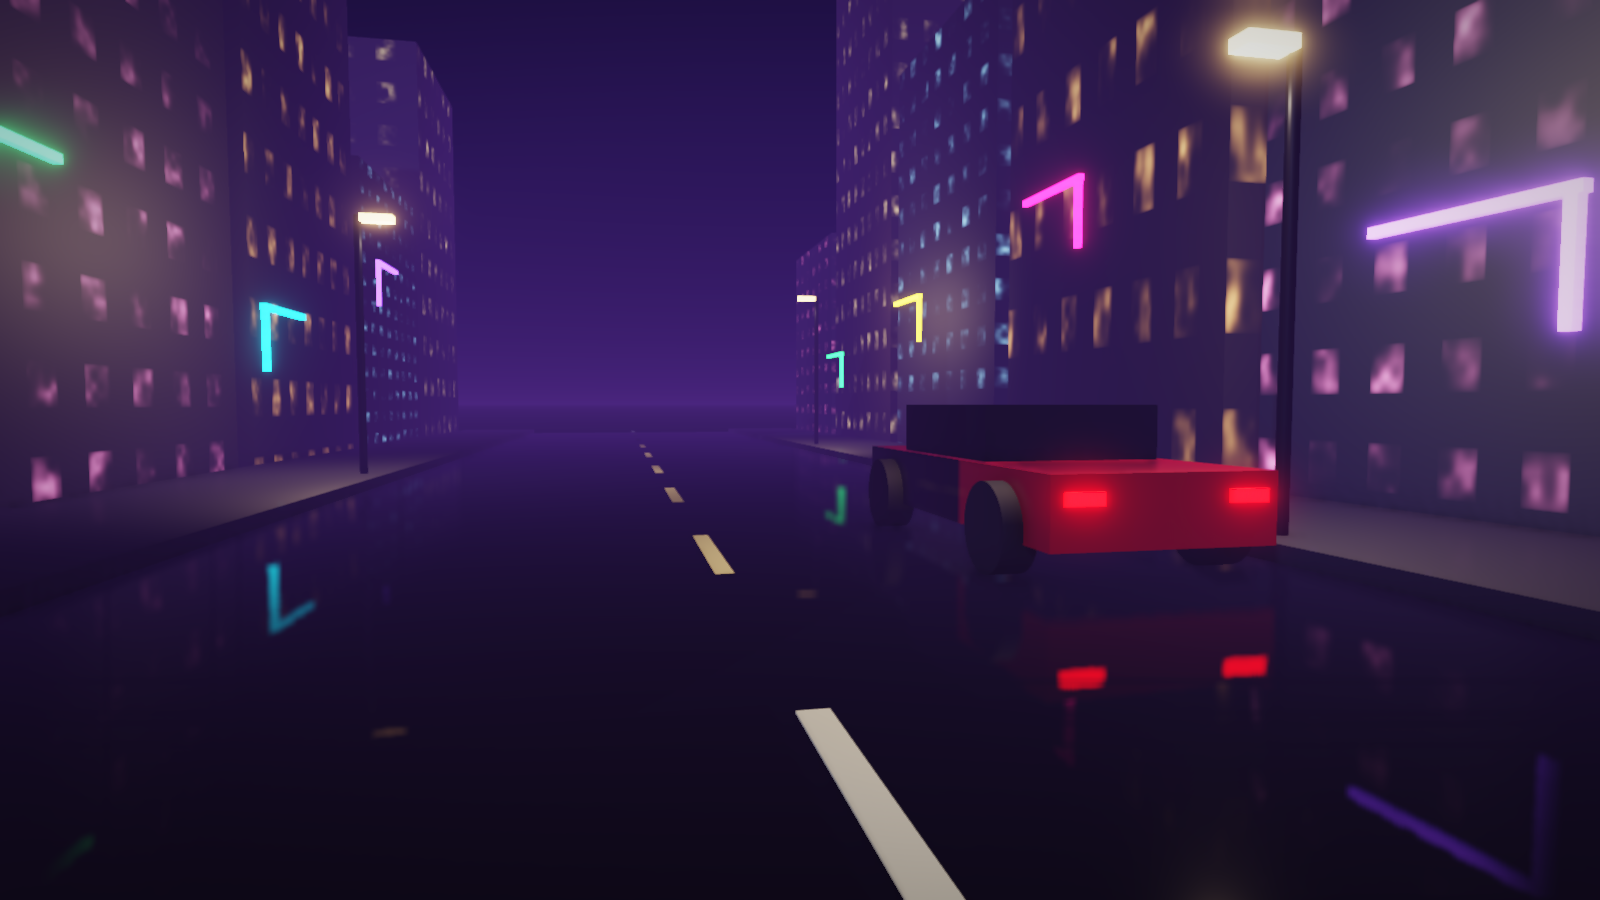
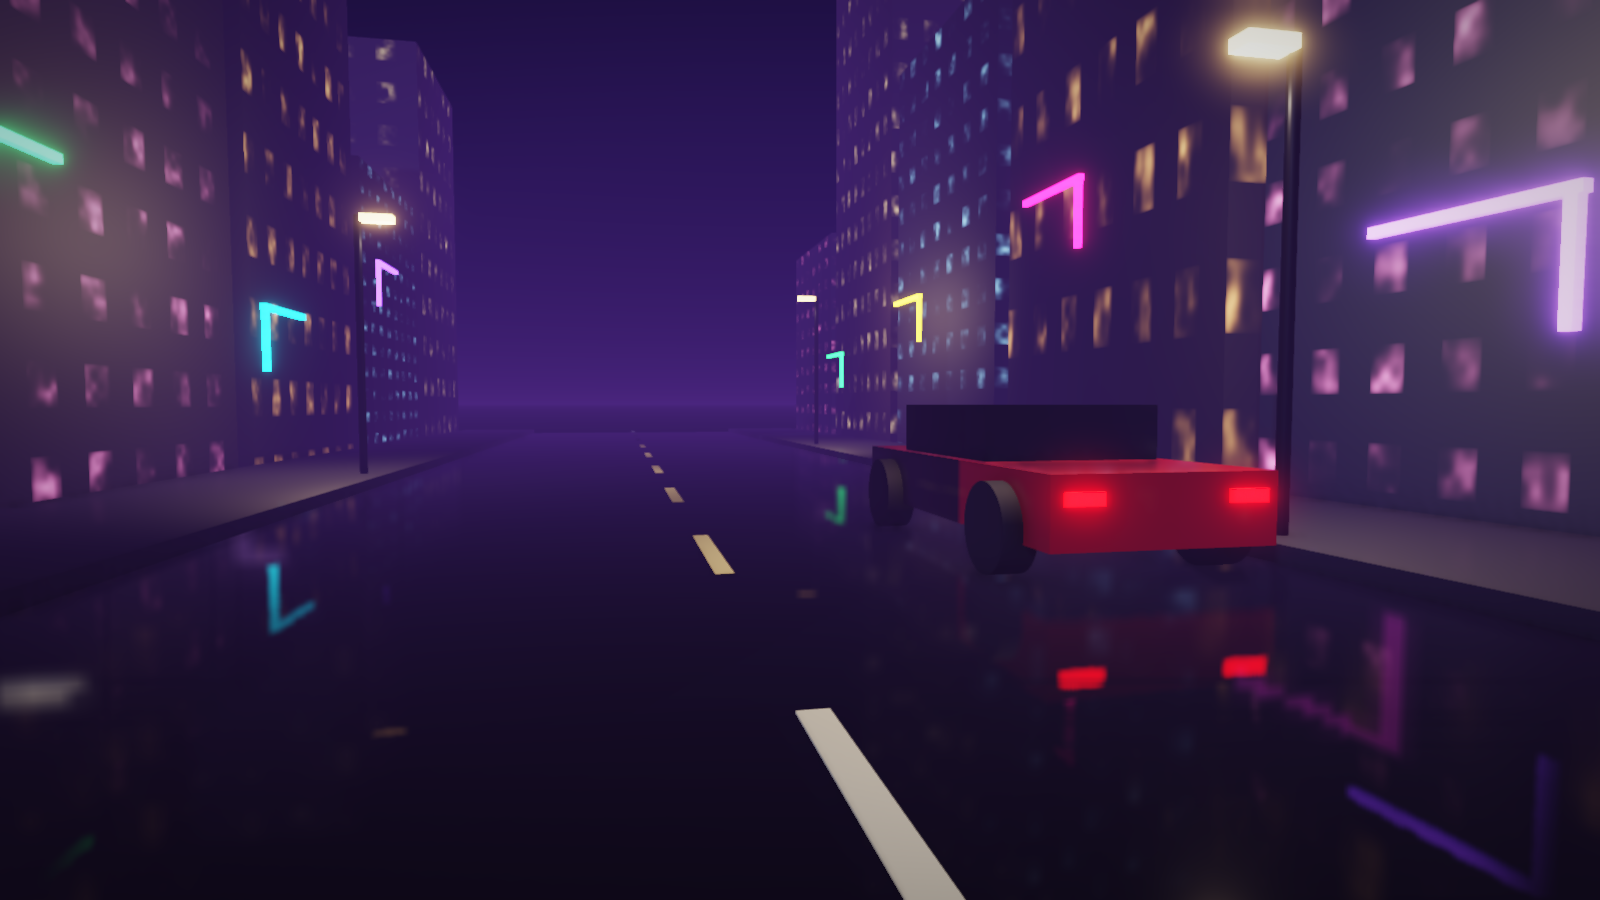
Render: sonda de reflexión (cubemap capturado de la escena)
- ReflectionProbe (Crear › Luces): al empezar se captura la escena en 6 caras desde su
  posición con el pipeline normal sin posprocesado; los niveles de detalle del cubemap hacen
  de reflejo rugoso y luz ambiental para materiales y barniz.
- La captura usa su propio framebuffer anterior (la pasada de sombras usa el general) y la
  sonda se quita al parar el juego en el editor.
- Ciudad de neón con sonda; prueba de guardado; documentación e imagen del README.

Claude-Session: https://claude.ai/code/session_0156Hn7CFwJtAWRTPtGc8EEh

diff --git a/engine/src/render/Renderer.cpp b/engine/src/render/Renderer.cpp
@@ -146,6 +146,10 @@ uniform ivec4 uGraphOut;       // registros de color base, metal, rugosidad y em
 uniform sampler2D uGraphTex0;
 uniform sampler2D uGraphTex1;
 uniform float uTime;
+uniform samplerCube uProbe;
+uniform int uProbeOn;
+uniform float uProbeMips;
+uniform float uProbeIntensity;
 uniform int uHdr;
 vec3 invAces(vec3 y) { // inversa de la curva ACES: tras el tonemapping final queda el color original
     y = clamp(y, 0.0, 0.99);
@@ -394,6 +398,12 @@ void main() {
     vec3 sharpSky = ry > 0.0 ? mix(horizon, sky, pow(ry, 0.55)) : mix(horizon, ground, pow(-ry, 0.35));
     vec3 blurSky = mix(ground, mix(horizon, sky, max(ry, 0.0)), ry * 0.5 + 0.5);
     vec3 env = mix(sharpSky, blurSky, smoothstep(0.0, 0.8, rough));
+    if (uProbeOn == 1) {
+        // La captura está tonemapeada en sRGB: se vuelve a luz lineal (inversa de ACES y de la exposición).
+        float ex = max(uExposure, 0.01);
+        env = invAces(toLinear(textureLod(uProbe, r, rough * uProbeMips).rgb)) / ex * uProbeIntensity;
+        hemi = invAces(toLinear(textureLod(uProbe, n, uProbeMips * 0.85).rgb)) / ex * uProbeIntensity;
+    }
     // El reflejo que apunta "dentro" de la superficie (normal map) no ve el cielo: oclusión de horizonte.
     float horizonOcc = clamp(1.0 + dot(reflect(-v, n), vNormal * (gl_FrontFacing ? 1.0 : -1.0)), 0.0, 1.0);
     // Oclusión especular de Lagarde a partir de la oclusión ambiental.
@@ -411,6 +421,8 @@ void main() {
         float Fv = 0.04 + 0.96 * pow(1.0 - cndv, 5.0);
         vec3 cr3 = reflect(-v, cn);
         vec3 coatEnv = cr3.y > 0.0 ? mix(horizon, sky, pow(cr3.y, 0.55)) : mix(horizon, ground, pow(-cr3.y, 0.35));
+        if (uProbeOn == 1)
+            coatEnv = invAces(toLinear(textureLod(uProbe, cr3, cr * uProbeMips).rgb)) / max(uExposure, 0.01) * uProbeIntensity;
         // La capa de abajo recibe menos luz (la que refleja el barniz) y se le suma el brillo del barniz.
         color = color * (1.0 - Fv * uClearcoat.x) + (coatDirect + coatEnv * Fv * specAo * uAmbientI) * uClearcoat.x;
         specTint = specTint * (1.0 - Fv * uClearcoat.x) + vec3(Fv * uClearcoat.x * specAo);
@@ -673,6 +685,7 @@ bool Renderer::createGpuObjects() {
     uCascadeTexel_ = u("uCascadeTexel");
     uGraphCount_ = u("uGraphCount"); uGraph_ = u("uGraph[0]"); uGraphOut_ = u("uGraphOut");
     uGraphTex0_ = u("uGraphTex0"); uGraphTex1_ = u("uGraphTex1"); uTime_ = u("uTime");
+    uProbe_ = u("uProbe"); uProbeOn_ = u("uProbeOn"); uProbeMips_ = u("uProbeMips"); uProbeIntensity_ = u("uProbeIntensity");
     uAlphaCutoff_ = u("uAlphaCutoff"); uSpot_ = u("uSpot"); uSpotInner_ = u("uSpotInner");
     uInstanced_ = u("uInstanced");
     uShadowInstanced_ = glGetUniformLocation(shadowProgram_, "uInstanced");
@@ -1167,6 +1180,46 @@ void Renderer::shutdown() {
 
 void Renderer::setLodEnabled(bool on) { lodEnabled_ = on; }
 
+bool Renderer::beginProbeCapture(int size) {
+    size = std::clamp(size, 16, 512);
+    if (!probeTex_ || probeSize_ != size) {
+        if (probeTex_) glDeleteTextures(1, &probeTex_);
+        if (probeFbo_) glDeleteFramebuffers(1, &probeFbo_);
+        if (probeDepth_) glDeleteRenderbuffers(1, &probeDepth_);
+        glGenTextures(1, &probeTex_);
+        glBindTexture(GL_TEXTURE_CUBE_MAP, probeTex_);
+        for (int f = 0; f < 6; ++f)
+            glTexImage2D(GL_TEXTURE_CUBE_MAP_POSITIVE_X + f, 0, GL_RGBA8, size, size, 0, GL_RGBA, GL_UNSIGNED_BYTE, nullptr);
+        glTexParameteri(GL_TEXTURE_CUBE_MAP, GL_TEXTURE_MIN_FILTER, GL_LINEAR_MIPMAP_LINEAR);
+        glTexParameteri(GL_TEXTURE_CUBE_MAP, GL_TEXTURE_MAG_FILTER, GL_LINEAR);
+        for (GLenum w : {GL_TEXTURE_WRAP_S, GL_TEXTURE_WRAP_T, GL_TEXTURE_WRAP_R})
+            glTexParameteri(GL_TEXTURE_CUBE_MAP, w, GL_CLAMP_TO_EDGE);
+        glGenRenderbuffers(1, &probeDepth_);
+        glBindRenderbuffer(GL_RENDERBUFFER, probeDepth_);
+        glRenderbufferStorage(GL_RENDERBUFFER, GL_DEPTH_COMPONENT24, size, size);
+        glGenFramebuffers(1, &probeFbo_);
+        probeSize_ = size;
+    }
+    glGetIntegerv(GL_FRAMEBUFFER_BINDING, &probePrevFbo_);
+    forceDirect_ = true;
+    return true;
+}
+
+void Renderer::probeFace(int face) {
+    glBindFramebuffer(GL_FRAMEBUFFER, probeFbo_);
+    glFramebufferTexture2D(GL_FRAMEBUFFER, GL_COLOR_ATTACHMENT0, GL_TEXTURE_CUBE_MAP_POSITIVE_X + face, probeTex_, 0);
+    glFramebufferRenderbuffer(GL_FRAMEBUFFER, GL_DEPTH_ATTACHMENT, GL_RENDERBUFFER, probeDepth_);
+}
+
+void Renderer::endProbeCapture(float intensity) {
+    glBindTexture(GL_TEXTURE_CUBE_MAP, probeTex_);
+    glGenerateMipmap(GL_TEXTURE_CUBE_MAP); // los niveles pequeños hacen de reflejo rugoso y de luz ambiental
+    glBindFramebuffer(GL_FRAMEBUFFER, static_cast<GLuint>(probePrevFbo_));
+    forceDirect_ = false;
+    probeOn_ = true;
+    probeIntensity_ = intensity;
+}
+
 void Renderer::setHdrUniforms(bool on) {
     for (GLuint p : {meshProgram_, spriteProgram_, skyProgram_}) {
         if (!p) continue;
@@ -1185,7 +1238,7 @@ void Renderer::beginFrame(const Viewport& vp, Color clear) {
     // Con posprocesado la escena se dibuja en un render target (a la escala del perfil) y se compone al final.
     glGetIntegerv(GL_FRAMEBUFFER_BINDING, &targetFbo_);
     sceneInTarget_ = false;
-    if (quality_.postProcess) {
+    if (quality_.postProcess && !forceDirect_) {
         const int sw = std::max(1, static_cast<int>(viewport_.width * quality_.renderScale + 0.5f));
         const int sh = std::max(1, static_cast<int>(viewport_.height * quality_.renderScale + 0.5f));
         sceneInTarget_ = post_->begin(sw, sh, hdrRequested_ && caps_.halfFloatTargets);
@@ -1344,6 +1397,13 @@ void Renderer::setLighting(const SceneLighting& l) {
         glUniform4f(uCascadeTexel_, l.cascadeTexel[0], l.cascadeTexel[1], l.cascadeTexel[2], l.cascadeTexel[3]);
     }
     glUniform1i(uShadowMap_, 1);
+    // Sonda: unidad 9 (durante la captura no se usa: no se refleja a sí misma).
+    glUniform1i(uProbe_, 9);
+    glUniform1i(uProbeOn_, (probeOn_ && !forceDirect_) ? 1 : 0);
+    glUniform1f(uProbeMips_, probeSize_ > 0 ? std::log2(float(probeSize_)) : 0.0f);
+    glUniform1f(uProbeIntensity_, probeIntensity_);
+    glActiveTexture(GL_TEXTURE9);
+    glBindTexture(GL_TEXTURE_CUBE_MAP, probeTex_);
     glUniform1i(uTex_, 0);
     glActiveTexture(GL_TEXTURE1);
     glBindTexture(GL_TEXTURE_2D, shadowTex_);

diff --git a/engine/src/runtime/Runtime.cpp b/engine/src/runtime/Runtime.cpp
@@ -158,6 +158,7 @@ bool Runtime::activateScene(const std::string& text, const std::string& name) {
     TransformSystem::update(*scene_);
     physics_.build(*scene_);
     startVoxel();
+    captureProbes();
     physicsDestroySub_ = events_.subscribe<EntityDestroyedEvent>([this](const EntityDestroyedEvent& ev) {
         if (ev.scene != scene_.get()) return;
         physics_.removeEntity(ev.entity);
@@ -571,6 +572,43 @@ void Runtime::startVoxel() {
     TITAN_INFO("voxel", "Mundo de bloques iniciado: %zu chunks cerca de la cámara", voxel_.world()->loadedChunks());
 }
 
+void Runtime::captureProbes() {
+    renderer_->clearProbe();
+    Entity probe;
+    scene_->world().each<ReflectionProbe>([&](Entity e, ReflectionProbe&) {
+        if (probe.isNull() && scene_->isActiveInHierarchy(e)) probe = e;
+    });
+    if (probe.isNull()) return;
+    const ReflectionProbe& rp = *scene_->world().get<ReflectionProbe>(probe);
+    TransformSystem::update(*scene_);
+    const Vec3 eye = scene_->computeWorldMatrix(probe).translation();
+    if (!renderer_->beginProbeCapture(rp.resolution)) return;
+    // Caras del cubemap de OpenGL (+X, -X, +Y, -Y, +Z, -Z): dirección y "arriba" de cada una.
+    const Vec3 dirs[6] = {{1, 0, 0}, {-1, 0, 0}, {0, 1, 0}, {0, -1, 0}, {0, 0, 1}, {0, 0, -1}};
+    const Vec3 ups[6] = {{0, -1, 0}, {0, -1, 0}, {0, 0, 1}, {0, 0, -1}, {0, -1, 0}, {0, -1, 0}};
+    const auto t0 = Clock::now();
+    for (int f = 0; f < 6; ++f) {
+        const Vec3 fwd = dirs[f], up = ups[f];
+        const Vec3 right = cross(fwd, up).normalized();
+        Mat4 world;
+        world.m[0] = right.x; world.m[1] = right.y; world.m[2] = right.z;
+        world.m[4] = up.x; world.m[5] = up.y; world.m[6] = up.z;
+        world.m[8] = -fwd.x; world.m[9] = -fwd.y; world.m[10] = -fwd.z;
+        world.m[12] = eye.x; world.m[13] = eye.y; world.m[14] = eye.z;
+        SceneView v;
+        v.view = world.inverted();
+        v.projection = Mat4::perspective(90.0f * kDegToRad, 1.0f, 0.1f, 500.0f);
+        v.perspective = true;
+        renderer_->probeFace(f);
+        sceneRenderer_.extraModels = voxel_.drawables();
+        sceneRenderer_.render(*scene_, *renderer_, Viewport{0, 0, rp.resolution, rp.resolution}, v,
+                              [this](AssetRef r) { return cache_->texture(r); }, [this](AssetRef r) { return cache_->model(r); },
+                              [this](AssetRef r) { return cache_->material(r); });
+    }
+    renderer_->endProbeCapture(rp.intensity);
+    TITAN_INFO("render", "Sonda de reflexión capturada (%d px por cara, %.0f ms)", rp.resolution, msSince(t0));
+}
+
 int Runtime::scriptVoxelSave() {
     VoxelWorld* w = voxel_.world();
     return w ? w->saveModified() : 0;
@@ -592,6 +630,7 @@ void Runtime::shutdown() {
     scripts_.reset();
     cache_->setJobs(nullptr); // espera las lecturas en curso: el JobSystem y el FileSource pueden desaparecer
     cache_->clear();
+    renderer_->clearProbe(); // la sonda es de la escena del juego, no del visor del editor
     if (!usesSharedRenderer()) renderer_->shutdown(); // el del editor lo cierra el editor
     renderer_ = &ownRenderer_;
     cache_ = &ownCache_;

diff --git a/engine/include/titan/render/Renderer.h b/engine/include/titan/render/Renderer.h
@@ -140,6 +140,13 @@ public:
     void endShadowPass();
 
     void beginFrame(const Viewport& viewport, Color clear);
+    // Sonda de reflexión: beginProbeCapture crea el cubemap; para cada cara se llama a probeFace y se dibuja la escena
+    // (sin posprocesado); endProbeCapture genera los niveles de rugosidad y la activa para los materiales.
+    bool beginProbeCapture(int size);
+    void probeFace(int face);
+    void endProbeCapture(float intensity);
+    void clearProbe() { probeOn_ = false; }
+    bool probeActive() const { return probeOn_; }
     void setCamera(const Mat4& view, const Mat4& projection);
     void setLighting(const SceneLighting& lighting);
     void drawSky();
@@ -350,7 +357,7 @@ private:
         uEmissiveTex_ = -1, uOcclusionTex_ = -1, uHasNormal_ = -1, uHasMR_ = -1, uHasOcclusion_ = -1,
         uNormalStrength_ = -1, uClearcoat_ = -1, uCascades_ = -1, uCascadeVP_ = -1, uCascadeSplit_ = -1,
         uCascadeTexel_ = -1, uGraphCount_ = -1, uGraph_ = -1, uGraphOut_ = -1, uGraphTex0_ = -1, uGraphTex1_ = -1,
-        uTime_ = -1, uAlphaCutoff_ = -1, uSpot_ = -1, uSpotInner_ = -1, uTerrain_ = -1, uLayerColor_ = -1,
+        uTime_ = -1, uProbe_ = -1, uProbeOn_ = -1, uProbeMips_ = -1, uProbeIntensity_ = -1, uAlphaCutoff_ = -1, uSpot_ = -1, uSpotInner_ = -1, uTerrain_ = -1, uLayerColor_ = -1,
         uLayerTiling_ = -1;
     int uLayers_[4] = {-1, -1, -1, -1};
     int uInstanced_ = -1, uShadowInstanced_ = -1;
@@ -390,6 +397,11 @@ private:
     Mat4 viewProj_;
     Mat4 projection_;
     bool specBuffersOn_ = false;
+    uint32_t probeTex_ = 0, probeFbo_ = 0, probeDepth_ = 0;
+    int probeSize_ = 0;
+    int probePrevFbo_ = 0; // propio: la pasada de sombras usa prevFbo_ durante la captura
+    bool probeOn_ = false, forceDirect_ = false;
+    float probeIntensity_ = 1.0f;
     bool lodEnabled_ = true;
     int chooseLod(const Model& m, const ModelPart& p, const Mat4& world) const;
     // TAA: proyección desplazada una fracción de píxel cada fotograma; la cámara del fotograma anterior reproyecta.

diff --git a/engine/src/editor/EditorPanels.cpp b/engine/src/editor/EditorPanels.cpp
@@ -305,7 +305,7 @@ void Editor::Impl::drawUI() {
 void Editor::Impl::drawCreateMenu() {
     static const char* basic[] = {"Vacío", "Cámara", "Cámara en tercera persona", "Sprite"};
     static const char* shapes[] = {"Cubo", "Esfera", "Plano", "Cilindro", "Cono", "Cápsula"};
-    static const char* lights[] = {"Luz direccional", "Luz puntual", "Foco"};
+    static const char* lights[] = {"Luz direccional", "Luz puntual", "Foco", "Sonda de reflexión"};
     for (const char* k : basic)
         if (ImGui::MenuItem(k)) createEntityOfKind(k);
     if (ImGui::BeginMenu("Formas")) {
@@ -635,6 +635,7 @@ const char* Editor::Impl::typeLabel(Entity e) {
     if (w.has<ParticleSystem>(e)) return "Partículas";
     if (w.has<Terrain>(e)) return "Terreno";
     if (w.has<VoxelTerrain>(e)) return "Mundo de bloques";
+    if (w.has<ReflectionProbe>(e)) return "Sonda de reflexión";
     if (w.has<NavAgent>(e)) return "Agente IA";
     if (w.has<CharacterController>(e)) return "Personaje";
     if (w.has<UIJoystick>(e)) return "Joystick";
@@ -1401,6 +1402,14 @@ void Editor::Impl::drawComponentFields(const std::string& name, Entity e) {
         dragF("Recalcular cada", a.repathInterval, 0.01f, 0.05f, 10, "%.2f s");
         propLabel("");
         ImGui::TextDisabled("e:setDestination(x, y, z) o e:setDestination(jugador); AI.canSee(e, jugador)");
+    } else if (name == "ReflectionProbe") {
+        ReflectionProbe& rp = *w.get<ReflectionProbe>(e);
+        dragF("Intensidad", rp.intensity, 0.01f, 0, 4, "%.2f");
+        propLabel("Resolución");
+        ImGui::SliderInt("##rpres", &rp.resolution, 32, 512, "%d px");
+        track();
+        propLabel("");
+        ImGui::TextDisabled("Se captura al pulsar Jugar, desde su posición.\nColócala en el centro de la zona que refleja.");
     } else if (name == "VoxelTerrain") {
         VoxelTerrain& v = *w.get<VoxelTerrain>(e);
         propLabel("Semilla");

diff --git a/tests/test_quality.cpp b/tests/test_quality.cpp
@@ -104,3 +104,16 @@ TEST("calidad: barniz y reflejos en pantalla se guardan; los proyectos antiguos 
     Environment edef;
     CHECK(def.clearcoat == 0.0f && !edef.ssr && !edef.taa && !edef.hdr && !edef.autoExposure);
 }
+
+TEST("calidad: la sonda de reflexión se guarda con la escena") {
+    const ComponentRegistry reg = ComponentRegistry::createDefault();
+    Scene a("a");
+    ReflectionProbe rp;
+    rp.intensity = 0.6f;
+    rp.resolution = 256;
+    a.world().add<ReflectionProbe>(a.createEntity("Sonda"), rp);
+    Scene b("b");
+    CHECK(deserializeScene(serializeScene(a, reg), b, reg).ok());
+    const ReflectionProbe* r = b.world().get<ReflectionProbe>(b.findByName("Sonda"));
+    CHECK(r && std::abs(r->intensity - 0.6f) < 1e-5f && r->resolution == 256);
+}

diff --git a/engine/include/titan/core/Components.h b/engine/include/titan/core/Components.h
@@ -171,6 +171,13 @@ struct Environment {
     float adaptationSpeed = 1.5f; // por segundo
 };
 
+// Sonda de reflexión: al empezar el juego se captura la escena en las 6 direcciones desde su posición; los
+// materiales reflejan ese entorno (también lo que queda fuera de pantalla) en vez del degradado del cielo.
+struct ReflectionProbe {
+    float intensity = 1.0f;
+    int resolution = 128; // por cara
+};
+
 struct Light {
     enum class Type { Directional, Point, Spot };
     Type type = Type::Directional; // la direccional y el foco iluminan hacia su forward() (-Z local)

diff --git a/engine/src/core/Serialization.cpp b/engine/src/core/Serialization.cpp
@@ -364,6 +364,14 @@ ComponentRegistry ComponentRegistry::createDefault() {
             readMaterialFields(m, rd);
         });
 
+    r.addSimple<ReflectionProbe>(
+        "ReflectionProbe",
+        [](const ReflectionProbe& p) { return Json{{"intensity", toJson(p.intensity)}, {"resolution", p.resolution}}; },
+        [](ReflectionProbe& p, FieldReader& rd) {
+            rd.read("intensity", p.intensity);
+            rd.read("resolution", p.resolution);
+        });
+
     r.addSimple<Environment>(
         "Environment",
         [](const Environment& e) {

diff --git a/engine/src/editor/EditorCore.cpp b/engine/src/editor/EditorCore.cpp
@@ -618,6 +618,9 @@ Entity Editor::Impl::createEntityOfKind(const std::string& kind) {
             scene.transform(e).setPosition({spawnPoint().x, spawnPoint().y, 10});
         }
         scene.world().add<Camera>(e, c);
+    } else if (kind == "Sonda de reflexión") {
+        scene.transform(e).setPosition(spawnPoint() + Vec3{0, 1.5f, 0});
+        scene.world().add<ReflectionProbe>(e);
     } else if (kind == "Luz direccional") {
         scene.transform(e).setPosition({0, 5, 0});
         scene.transform(e).setEulerDegrees({-50, 30, 0});

diff --git a/engine/src/samples/NeonSample.cpp b/engine/src/samples/NeonSample.cpp
@@ -203,6 +203,11 @@ bool buildCity(Project& p, UUID scriptId, UUID& sceneId) {
         tl->castShadows = false;
     }
 
+    // Sonda de reflexión en mitad de la calle: el barniz del coche y los charcos reflejan neones y ventanas.
+    Entity probe = s.createEntity("Sonda de reflexión");
+    s.transform(probe).setPosition({0, 2.0f, 2});
+    s.world().add<ReflectionProbe>(probe);
+
     // Cámara que recorre la calle.
     Entity cam = s.createEntity("Cámara");
     s.transform(cam).setPosition({0, 1.7f, 14});

diff --git a/engine/include/titan/runtime/Runtime.h b/engine/include/titan/runtime/Runtime.h
@@ -129,6 +129,7 @@ private:
     void applyPendingSceneLoad();
     void render(const Viewport& viewport);
     void startVoxel(); // si la escena tiene un VoxelTerrain
+    void captureProbes(); // si la escena tiene una ReflectionProbe
     bool cameraPosition(Vec3& out);
 
 

diff --git a/docs/TITAN_ENGINE_STATUS.md b/docs/TITAN_ENGINE_STATUS.md
@@ -77,7 +77,8 @@ orden de `docs/TITAN_ENGINE_ROADMAP.md`. Lo que sigue es el detalle.
 | Valores inválidos (NaN/Inf) en HDR: el SSR y el SSAO descartan normales degeneradas (geometría muy fina), el SSR se sanea, y el TAA, el bloom y la composición nunca propagan un píxel inválido | ✅ | Escena de neón: de 144-240 píxeles negros en algunos fotogramas a 0 en 6 fotogramas |
 | Niveles de detalle automáticos (meshoptimizer, MIT): al cargar un modelo, cada parte de 256+ triángulos recibe versiones al 50 % y 25 % (mismos vértices, un solo búfer de índices); se elige por el tamaño en pantalla, también para las sombras; los perfiles bajos simplifican antes (lodBias) | ✅ | 40 personajes: 65 090 → 45 842 triángulos con la misma imagen; error de simplificación 0,3 % y 0,9 % |
 | Exposición automática (adaptación del ojo, con HDR): media logarítmica de la luminancia (64×64) y adaptación gradual en el tiempo; la exposición manual actúa de compensación | ✅ | Brillo medio medido: noche 20 → 46,7, día 156 → 139 |
-| Sondas de reflexión con cubemaps, lightmaps, GI, volumétricas | ❌ | Ver `docs/TITAN_RUMBO_AAA.md` |
+| Sonda de reflexión (Crear › Luces): al pulsar Jugar se captura la escena en un cubemap desde su posición (con el pipeline normal, sin posprocesado) y sus niveles de detalle hacen de reflejo rugoso y luz ambiental; los materiales y el barniz la usan en vez del degradado del cielo | ✅ | Comparación con suelo naranja: las esferas metálicas reflejan el suelo y a sus vecinas; captura de 6 caras a 128 px en ~0,8 s (render por software) |
+| Varias sondas con mezcla y corrección de paralaje, lightmaps, GI, volumétricas | ❌ | Ver `docs/TITAN_RUMBO_AAA.md` (hoy: una sonda por escena) |
 | TAA, DoF, motion blur, aberración cromática, grano, auto exposición | ❌ | |
 
 ## 3. Materiales y shaders

diff --git a/docs/FILE_FORMATS.md b/docs/FILE_FORMATS.md
@@ -67,6 +67,7 @@ Reglas comunes:
 | `Script` | `script` (recurso .lua), `enabled`, `props` (objeto) |
 | `MeshRenderer` | `mesh`, `model`, `material` (recurso .mat), `castShadows`, `visible` y los campos de material: `texture`, `color`, `metallic`, `roughness`, `emission`, `prototypeGrid`, `unlit`, `normalMap`, `normalStrength`, `clearcoat`, `clearcoatRoughness` (barniz), `graph` (material por nodos: `{"format": "titan-material-graph", "version": 1, "nextId", "nodes": [{"id", "type", "value" [4], "texture", "pos" [2], "inputs" [ids]}]}`), `metallicRoughnessMap`, `emissionMap`, `occlusionMap`, `tiling` [2], `offset` [2], `alphaClip`, `alphaCutoff`, `doubleSided` |
 | `Light` | `type` ("directional"/"point"/"spot"), `color`, `intensity`, `range`, `spotAngle`, `spotSoftness` |
+| `ReflectionProbe` | `intensity`, `resolution` (píxeles por cara) |
 | `Environment` | cielo, niebla, sombras y posprocesado: `bloom`, `bloomIntensity`, `bloomThreshold`, `vignette`, `contrast`, `saturation`, `temperature`, `ssao`, `ssaoIntensity`, `ssaoRadius` (oclusión en pantalla), `ssr`, `ssrIntensity` (reflejos en pantalla), `taa` (antialiasing temporal), `hdr` (escena en coma flotante), `autoExposure`, `adaptationSpeed`; si faltan, desactivados |
 | `Animator` | `clip`, `playing`, `loop`, `speed`, `fadeDuration`, `machine` (opcional: `params`, `states` con `blend` y `events`, `transitions` con `conditions`) |
 | `AudioSource` | `clip`, `volume`, `pitch`, `loop`, `playOnStart`, `spatial`, `minDistance`, `maxDistance` |
